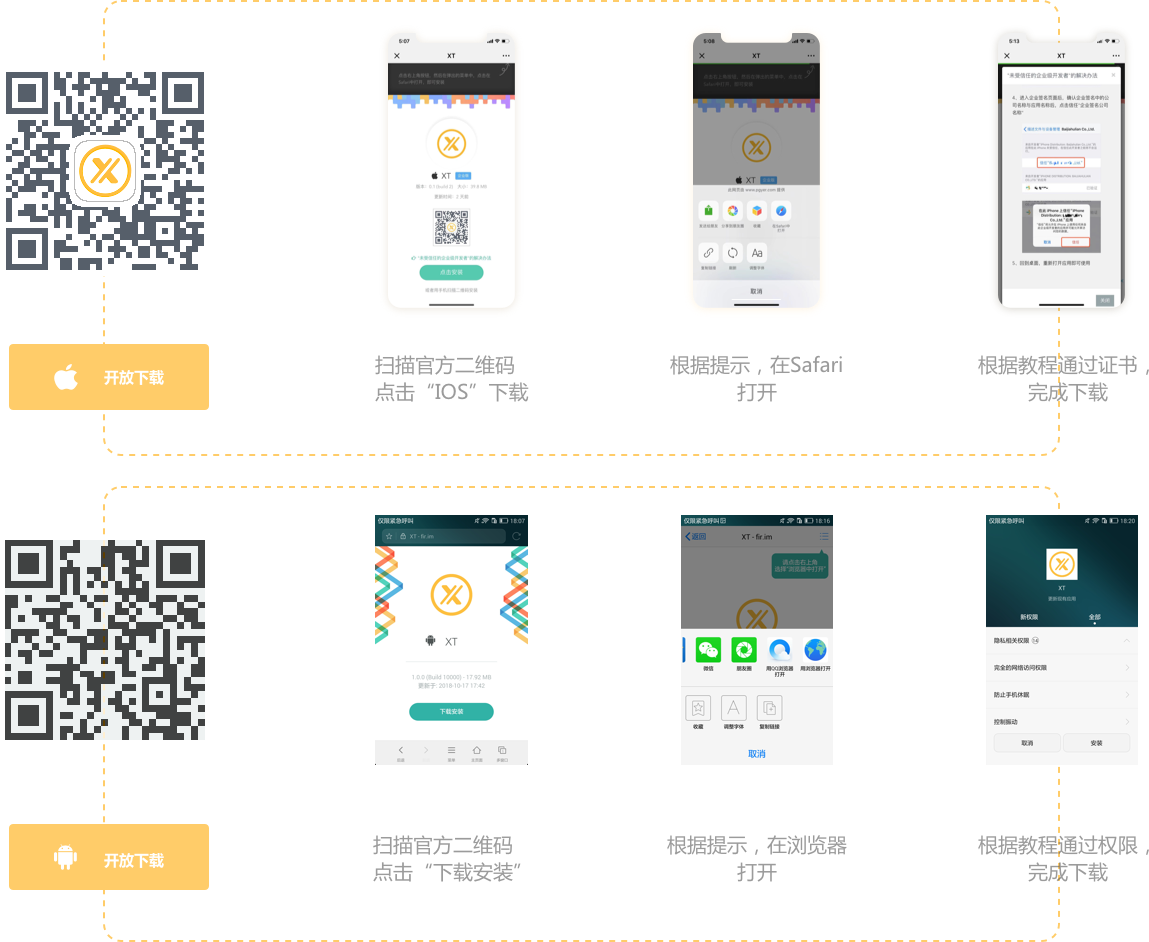
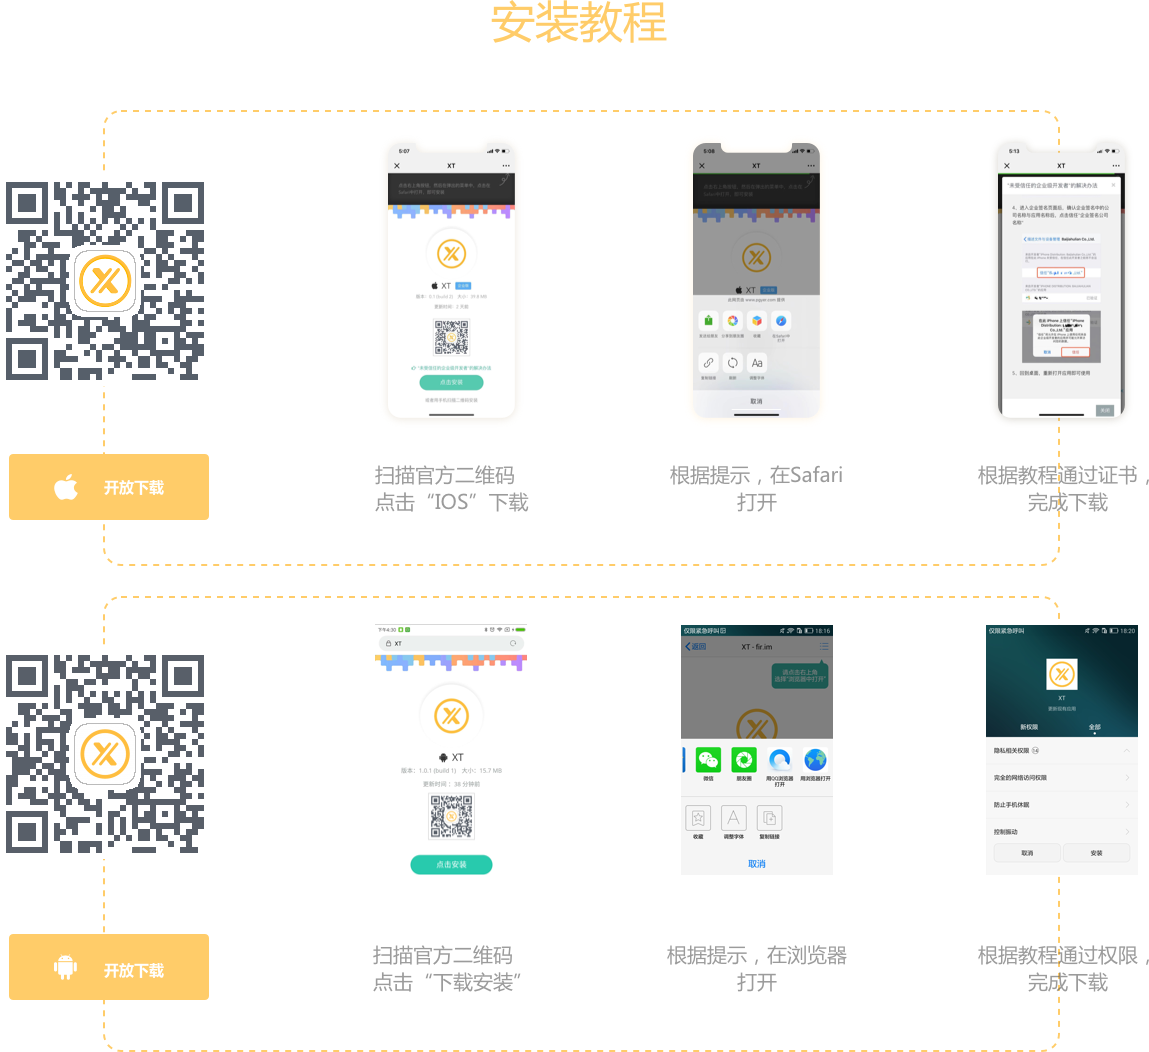
替换app下载页面的下载图片

diff --git a/views/cn/user/login.html b/views/cn/user/login.html
@@ -301,6 +301,7 @@
                     } else {
                         _this.requestLocked = true;
                         Methods.ajax({
+
                             // url: DOMAIN_MAIN + API_PREFIX + 'login',
                             url: DOMAIN_DEV +
                             "/exchange/user/controller/website/usercontroller/" +
@@ -331,8 +332,8 @@
                                     }
                                 }*/
                                 isZbLogin = false;
-                                //跳转页面提示
-                                loginSuccessUi(path);
+                                //跳转页面提示                             
+                                // loginSuccessUi(path);
                             },
                             error: function (res) {
                                 _this.requestLocked = false;

diff --git a/public/src/scripts/common/methods.js b/public/src/scripts/common/methods.js
@@ -279,7 +279,6 @@ define(['md5', 'others/jsencrypt.min', 'sha1/sha1.min', 'common/juabox', 'mathjs
             // 登录状态下 设置header(UserId,ClientType,Timestamp,Sign)
             // Sign:UserId+timestamp+parametersContent+token
             if (Methods.getLocalUserInfo() && Methods.getLocalUserInfo().godLogin != 1) {
-
                 var timestamp = (new Date()).getTime();
                 var header = {
                     Userid: Methods.getLocalUserInfo().userId,

diff --git a/views/cn/zbg/index.html b/views/cn/zbg/index.html
@@ -915,8 +915,9 @@
                             return this.marketsForCoin(type);
                         }
                     }
-                }
+                },
             },
+            
             methods: {
                 initSwiper: function () {
                     var mySwiper = new Swiper('.swiper-container', {
